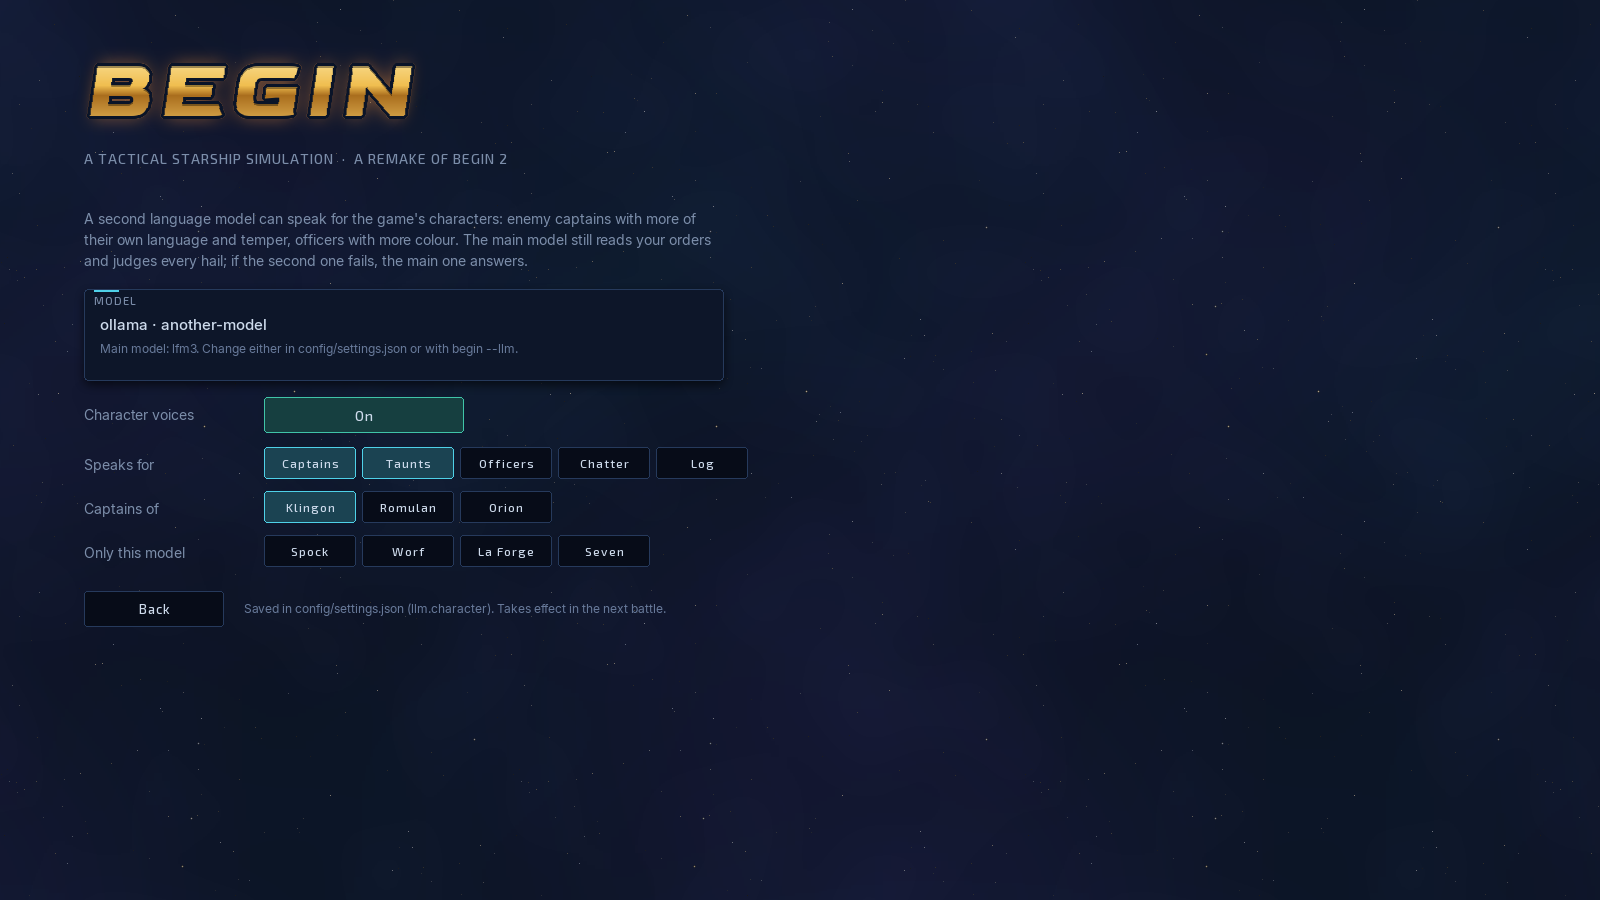
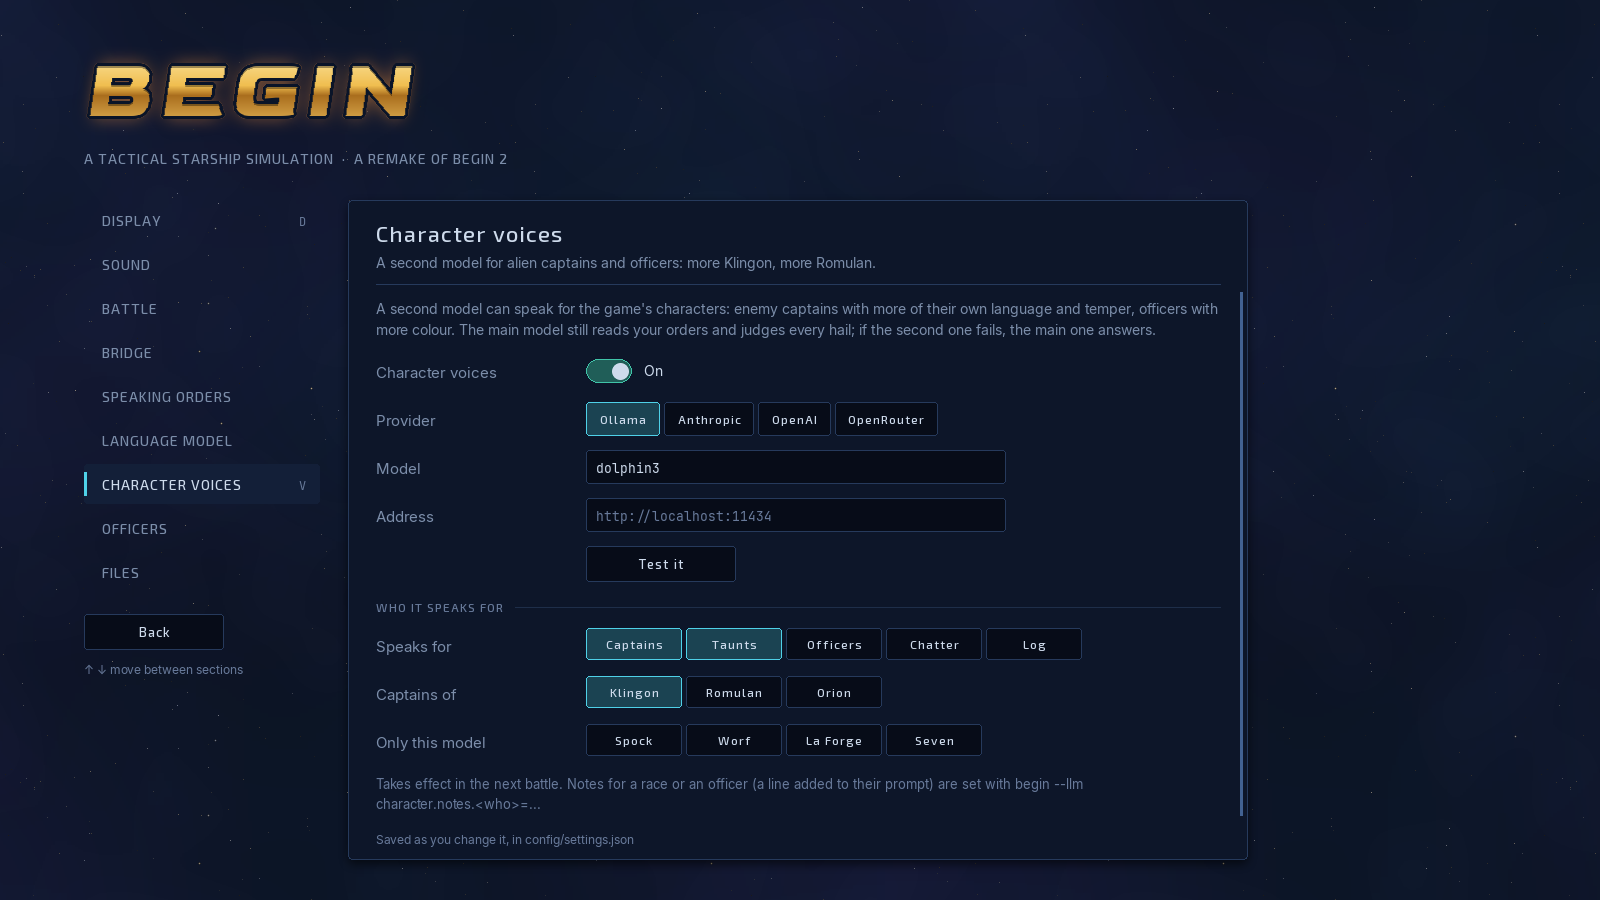
Docs: point the README, guides and release notes at Settings; new Character voices screenshot

diff --git a/README.md b/README.md
@@ -74,7 +74,7 @@ Useful shortcuts:
 
 ### Before you start
 
-The main menu sits over a slowly drifting starfield. Every so often the Enterprise glides across it in a slow straight line, from a new direction and a new distance each time, as if seen from a different vantage point, and on most passes she fires: a phaser volley from the saucer banks that face the unseen enemy, or a spread of torpedoes from the forward tubes. Then she is gone and the stars have the screen until the next pass. The menu's sound is quieter than the battle's. From the menu you can start a quick battle (**Enter**), a [patrol](#patrols) (**P**), a [tour of duty](#tours-of-duty) (**T**), a preset or a custom battle; choose how the game is drawn on **Display** (**D**, see [Sharp screens and the GPU](#sharp-screens-and-the-gpu)); set up a second model for the characters on **Character voices** (**V**, see [Language models](#language-models-optional)); and **Open config folder** takes you to your settings files. **Quick battle side** under the list picks the faction you command in quick battles and patrols. Or open **Coach & training** (or **C**). That opens the coach before any battle, with a short training run: how to find and target the enemy, close the range, use torpedoes at long range and phasers up close, and keep a good shield toward them, each with the command to type. **Manual** (or **H**) opens the whole manual.
+The main menu sits over a slowly drifting starfield. Every so often the Enterprise glides across it in a slow straight line, from a new direction and a new distance each time, as if seen from a different vantage point, and on most passes she fires: a phaser volley from the saucer banks that face the unseen enemy, or a spread of torpedoes from the forward tubes. Then she is gone and the stars have the screen until the next pass. The menu's sound is quieter than the battle's. From the menu you can start a quick battle (**Enter**), a [patrol](#patrols) (**P**), a [tour of duty](#tours-of-duty) (**T**), a preset or a custom battle; change any setting on **Settings** (**S**; **D** opens it at how the game is drawn, see [Sharp screens and the GPU](#sharp-screens-and-the-gpu), and **V** at the second model for the characters, see [Language models](#language-models-optional)); and **Open config folder** takes you to your settings files. **Quick battle side** under the list picks the faction you command in quick battles and patrols. Or open **Coach & training** (or **C**). That opens the coach before any battle, with a short training run: how to find and target the enemy, close the range, use torpedoes at long range and phasers up close, and keep a good shield toward them, each with the command to type. **Manual** (or **H**) opens the whole manual.
 
 **Settings** (or **S**) changes the game's configuration without opening a file: display, sound, the speed battles start at, the bridge style and its parts, speaking orders, the officers' language model and the character voice model (each with a **Test it** button), and your officers' names, ranks, traits and how they speak. Every change is saved at once to the same files in `config/` (`settings.json`, and `officers.toml` for the officers, where only the line you change is written, so your own comments and personas stay as they are).
 
@@ -191,7 +191,7 @@ begin --llm character=off         # back to one model for everyone
 
 `for` picks the situations: `captains` (answering your hails), `taunts` (calling you unprompted), `officers` (answering you), `chatter` (their remarks in battle) and `log` (their parts of a tour's captain's log). `factions` and `officers` narrow it to some races or some officers, and `notes` adds a line to that character's prompt (`*` for all of them). `only` pins characters to the second model: everything they say goes there, and if it fails they answer offline rather than through the main model (`character.only=worf`, or the **Only this model** buttons on the page). The same keys as the main model work under `character.` (`base_url`, `think`, `timeout`, ...). It lives in `config/settings.json` under `llm.character`.
 
-![The Character voices page: a second model speaking for Klingon captains when they answer a hail or taunt you](docs/screenshots/character-voices.png)
+![Settings, at Character voices: a second model speaking for Klingon captains when they answer a hail or taunt you](docs/screenshots/character-voices.png)
 
 **Watching what the model costs.** Two debug logs, both off by default, show exactly how hard the game is working the model:
 

diff --git a/packaging/config_seed/README.md b/packaging/config_seed/README.md
@@ -2,11 +2,11 @@
 
 This folder holds everything you set for Begin. The game made it beside itself the first time it ran, and it never keeps settings anywhere else on your computer. Every file here is plain text: open it with Notepad (Windows), TextEdit (Mac) or any text editor. The **Open config folder** button on the game's main menu brings you straight here.
 
-You don't need to touch anything. The game saves your window, speed, sound and battle choices in `settings.json` by itself. The files below are for when you want more.
+You don't need to touch anything. The game saves your window, speed, sound and battle choices in `settings.json` by itself, and **Settings** on the main menu (S) changes the rest from inside the game: display, sound, the bridge, speaking orders, the language models, and your officers' names, ranks, traits and how they speak. The files below are for when you want more.
 
 | File | What it holds |
 |---|---|
-| `settings.json` | Window size, speed, sound (`volume` 0 to 1, `muted`, `sounds`: which version of the phaser and torpedo sounds, a to d, and `hum`), how the game is drawn (`renderer` and `bloom`, set on the main menu's **Display** page), officer chatter, Custom battle choices, the officers' language model (`llm`) and an optional second one for character voices (`llm.character`), the Bridge setting (`bridge`), speaking orders (`voice`) and your career (`career`: each officer's trust in you and the ribbons you've earned). The game writes it; `settings.example.json` shows the layout. |
+| `settings.json` | Window size, speed, sound (`volume` 0 to 1, `muted`, `sounds`: which version of the phaser and torpedo sounds, a to d, and `hum`), how the game is drawn (`renderer` and `bloom`, set under **Settings → Display** on the main menu), officer chatter, Custom battle choices, the officers' language model (`llm`) and an optional second one for character voices (`llm.character`), the Bridge setting (`bridge`), speaking orders (`voice`) and your career (`career`: each officer's trust in you and the ribbons you've earned). The game writes it; `settings.example.json` shows the layout. |
 | `officers.toml` | Your officers, shaped however you like: name and rank, traits, how each one answers, a new persona or a background, interests and quirks, and their own lines for any moment. Copy `officers.example.toml` to `officers.toml` and edit it. |
 | `orders.toml` | Your named tactical orders, run in battle with `execute order <name>`. Orders you `record` in battle are saved here too. Copy `orders.example.toml` to `orders.toml` to start. |
 | `wheel.toml`, `alerts.toml` | Your own command wheel and alert conditions (`alert red`, `yellow`, `green`), if you want to change them: start from a copy of the game's own, in `src/begin/content/data/` on [GitHub](https://github.com/marlinspike/trek). Each step is a console line. |
@@ -29,7 +29,7 @@ The game plays fully without any of this: the officers use their written lines. 
 "llm": {"provider": "ollama", "model": "lfm3", "think": false}
 ```
 
-A second model can speak for the game's characters only, for richer Klingon, Romulan and other alien speech from enemy captains and more colour from the officers. Set it up on the main menu's **Character voices** page, or under `"character"` inside `"llm"`; the main model keeps reading your orders and judging hails.
+A second model can speak for the game's characters only, for richer Klingon, Romulan and other alien speech from enemy captains and more colour from the officers. Set it up under **Settings → Character voices** on the main menu, or under `"character"` inside `"llm"`; the main model keeps reading your orders and judging hails.
 
 Cloud models work too, with `"provider"` set to `anthropic`, `openai` or `openrouter` and that provider's model id. Their API keys are never stored here: they come only from the `ANTHROPIC_API_KEY`, `OPENAI_API_KEY` or `OPENROUTER_API_KEY` environment variable.
 

diff --git a/packaging/RELEASE_NOTES.md b/packaging/RELEASE_NOTES.md
@@ -1,14 +1,16 @@
 ## What's new in 1.2
 
+**Settings in the game.** A Settings page on the main menu (S) changes everything you used to edit in the config folder: display, sound with a sample of each phaser and torpedo, the speed battles start at, the bridge style and its parts, speaking orders, the officers' language model and the character voice model (each with a Test button), and your officers' names, ranks, traits and how they speak. Each change is saved at once; in `officers.toml` only the line you change is written.
+
 **Command from the bridge.** Every order you give is read back by the officer at that station ("Course 090, warp 6."), and officers speak in subtitles low on the map, with the log split into Bridge and Computer columns. Right-click a ship (or press E) for a command wheel; while you type, the battle eases to a quarter speed, the map shows a ghost of what Enter would do, and Tab finishes names. Officers now and then propose an order (Y makes it so, N belays it). `alert red`, `yellow` and `green` give a set of orders at once, `record` saves what you just did as a named order, the new Orders tab holds them all as cards, and `style` promises a way of commanding for a ribbon. Each officer's trust in you grows across battles, from Green to Veteran, and changes what they will do. None of it replaces anything: keys, clicks and the console work as before, and `hud bridge classic` turns it all off.
 
 **Speak your orders.** Hold Right Alt (Option on a Mac), say the order, let go. The Mac's own recogniser, whisper.cpp on your computer, a whisper.cpp server or a cloud service hears it; the `voice` page picks one and tests it. The first time, your computer asks whether Begin may use the microphone.
 
 **Patrols.** A new mode on the main menu (P): a fresh single battle each time, one of five situations (an ambush, a wolf pack, a second wave, an escort or an enemy flagship behind her screen) against a random enemy.
 
-**Sharp on Retina and 4K.** The game now draws at your screen's real pixel density through the graphics card, so text, hulls and beams are crisp. Weapon fire lights the hulls near it, beams and blasts have a soft glow, and panels cast a soft shadow. The new Display page (D) shows what is drawing and lets you choose; where the graphics card can't be used, the game draws as before.
+**Sharp on Retina and 4K.** The game now draws at your screen's real pixel density through the graphics card, so text, hulls and beams are crisp. Weapon fire lights the hulls near it, beams and blasts have a soft glow, and panels cast a soft shadow. The Display section of Settings (D) shows what is drawing and lets you choose; where the graphics card can't be used, the game draws as before.
 
-**Officers of your own, and voices for the aliens.** The `officers.toml` file in your config folder can now give an officer a new name, rank, background, interests, quirks and lines of their own. An optional second language model can speak for the characters alone, for richer Klingon, Romulan and other alien speech (Character voices on the main menu, V).
+**Officers of your own, and voices for the aliens.** The `officers.toml` file in your config folder can now give an officer a new name, rank, background, interests, quirks and lines of their own. An optional second language model can speak for the characters alone, for richer Klingon, Romulan and other alien speech (Settings → Character voices on the main menu, V).
 
 **Tougher fleets.** The enemy fleets in the preset battles are larger again, so the Dreadnought has a real fight: an AI captain flying her wins about two battles in three. Map labels are easier to read, ships in close formation share one label, and a faint nebula drifts behind the stars.
 

diff --git a/docs/ARCHITECTURE.md b/docs/ARCHITECTURE.md
@@ -116,9 +116,9 @@ So the AI, the rules, the officers, a game mode or a network link can change wit
 - `GLPresenter` (`ui/glpresent.py`) opens a high-density OpenGL window with moderngl. The screen surface is a `gfx.Canvas` at the display's real density (2 on a Retina Mac), so everything is drawn sharp while the layout stays in points. Each frame is uploaded as a texture and drawn by one shader that adds a bloom to the weapon light the map offers (`gfx.offer_light`: the glow layer under beams and blasts, shrunk through mipmaps, blurred and added back) and a slight vignette at the edge of the map (`gfx.set_stage`). Text and panels are never bloomed. The GPU work lives in `Compositor`, which needs no window, so `tests/test_gpu_present.py` checks it on an offscreen context.
 - `SoftwarePresenter` is pygame's own window at density 1, as before. Headless runs, screenshots and the tests use it, and `open_presenter` falls back to it whenever the GPU path fails or OpenGL is drawn on the CPU.
 
-`gfx` (`ui/gfx.py`) is what makes density invisible to the rest of the UI: a `Canvas` stores `SCALE` times the pixels but answers in logical ones, `gfx.draw` and `gfx.transform` scale coordinates and widths, and text is rendered at the real size. On Windows the presenter asks SDL for per-monitor DPI scaling, so Windows behaves like macOS: the window in points, the frame in pixels. The renderer is chosen by the `renderer` setting (or `--renderer`) and can only change at a restart, so the Display page offers one (`DisplayControl`, `relaunch_command`).
+`gfx` (`ui/gfx.py`) is what makes density invisible to the rest of the UI: a `Canvas` stores `SCALE` times the pixels but answers in logical ones, `gfx.draw` and `gfx.transform` scale coordinates and widths, and text is rendered at the real size. On Windows the presenter asks SDL for per-monitor DPI scaling, so Windows behaves like macOS: the window in points, the frame in pixels. The renderer is chosen by the `renderer` setting (or `--renderer`) and can only change at a restart, so the Display section of Settings offers one (`DisplayControl`, `relaunch_command`).
 
-`App` swaps between `MenuScene` (`ui/menu_scene.py`: game modes, presets, Custom setup, the Display page and the Character voices page), `TourScene` (tours of duty, between battles) and `BattleScene`.
+`App` swaps between `MenuScene` (`ui/menu_scene.py`: game modes, presets, Custom setup, and Settings, which is `ui/settings_hub.py`: every section of `config/settings.json` plus officers' names and styles, written to `officers.toml` a line at a time by `crew/officer_file.py`; it reaches the language models only through `session/models.py`), `TourScene` (tours of duty, between battles) and `BattleScene`.
 
 `BattleScene` (`ui/battle_scene.py`) presents a session. Given a `Battle` it builds a `BattleSession`; given anything that honours `Session` it presents that. It subscribes to the news and turns it into log lines, subtitles, sound, printouts and overlays, and it mixes in its other parts from `ui/battle/`: `input.py` (keys and mouse, with the single-key controls as tables), `bridge.py` (the console line, completion and the order preview), `voice.py` (push-to-talk), `comms.py` (the hail prompt and buttons) and `render.py` (drawing). `ui/battle/state.py` declares the state they share; scene attributes such as `paused` and `obs` read and write the session's through `Forward` descriptors, so there is one source of truth.
 

diff --git a/docs/DEVIATIONS.md b/docs/DEVIATIONS.md
@@ -162,7 +162,7 @@ Begin drew its display in text and simple vectors and had no sound effects. The 
 - The Enterprise is drawn from a pre-rendered sprite rather than vectors on the menu and, in battle, when the map is zoomed in far enough (at least 0.9 pixels per hull unit) on a Federation heavy cruiser. (Since the Enterprise became a Dreadnought in every preset and tour, she wears the Dreadnought's own lit art in battle: the hand-built model has two nacelles and the Dreadnought hull three.) `tools/render_ship.py` bakes it offline from our own height-field model of the ship: two-tone hull plating and panel lines, lit windows, nacelle grilles and glowing Bussard caps, the deflector dish, impulse engines and navigation lights, lit with diffuse, specular and rim light, ambient occlusion and bloom. It is rendered at twelve headings, each with the light kept fixed on screen, and the game rotates the nearest one. No artwork from any other source is used.
 - Sound is synthesised at start-up from original synthesis, with no recorded audio. It plays only for what the player can see, panned and attenuated by where it happens on the map. `volume` and `muted` live in `config/settings.json`; M mutes and `sound on|off|<0-100>` sets it. The phaser (a steady, buzzing held beam with a flanged shimmer) and the torpedo launch (a low thump under a falling whoosh, with a short room tail) each come in four versions (rays and energy pulses modelled on the shows' character, plus a buzz and a thump), picked with `sound phaser|torpedo a|b|c|d` and kept as `sounds` in the settings. A WAV of the player's own in `config/sounds/` replaces any sound.
 
-- On a high-density screen the game draws at the screen's real density through the graphics card (`ui/glpresent.py`, moderngl, OpenGL 3.3), with a soft bloom on weapon light only and a slight vignette at the map's edge; text and panels are never blurred. Weapon fire lights nearby hulls in its own colour, and panels cast a soft shadow. All of it is switched by *Light and glow* on the Display page, and the game falls back to pygame's own drawing wherever the GPU path isn't available.
+- On a high-density screen the game draws at the screen's real density through the graphics card (`ui/glpresent.py`, moderngl, OpenGL 3.3), with a soft bloom on weapon light only and a slight vignette at the map's edge; text and panels are never blurred. Weapon fire lights nearby hulls in its own colour, and panels cast a soft shadow. All of it is switched by *Light and glow* under Settings → Display, and the game falls back to pygame's own drawing wherever the GPU path isn't available.
 - Map labels have a dark halo, and ships in close formation share one label placed clear of the group. A faint, seamless parallax nebula sits behind the stars, in battle and on the menu.
 
 In the 14-ship Fleet Action, frame time with the effects is within about a millisecond of what it was without them.
